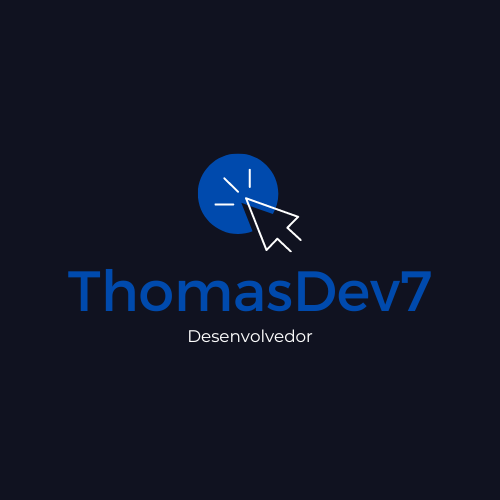
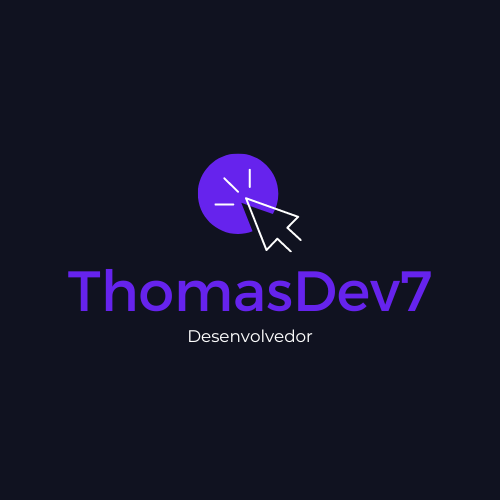
troca de paleta

Changed region(s): [[0.12, 0.54, 0.87, 0.63], [0.39, 0.3, 0.57, 0.48]]

diff --git a/css/index.css b/css/index.css
@@ -1,3 +1,11 @@
+:root{
+    --purple-p: #6623ED;
+    --purple-s: #6685ED;
+    --purple-alt: #8568F0;
+    --purple-clean: #9d82ff;
+}
+    
+
 *{
     margin: 0;
     font-family: verdana;
@@ -6,7 +14,7 @@ body{
     background: white;
 }
 .line{
-    background-color: steelblue;
+    background-color: var(--purple-p);
     padding-bottom: 1%;
     margin-bottom: 50px;
 }
@@ -14,7 +22,12 @@ body{
     background-color: black;
 }
 strong{
-    color: steelblue;
+    color: var(--purple-p);
+}
+#menu{
+    height: 30px;
+    margin-top: 15px;
+
 }
 
 #btn-content:hover{
@@ -22,7 +35,7 @@ strong{
     border-radius: 0 0 20px 0;
 }
 #btn-menu:hover{
-    background-color: steelblue;
+    background-color: var(--purple-p);
     border-radius: 0 0 60px 60px;
 }
 /* ROSTO */
@@ -87,9 +100,7 @@ img.redes{
     border: 1px #c2c2c2 solid;
     border-radius: 10px;
 }
-.conteudo .card .balls:hover{
-    background-color: steelblue;
-}
+
 .conteudo .card h2, .conteudo .card p{
     margin: 10px;
 }
@@ -101,7 +112,7 @@ img.redes{
 }
 .conteudo .card .balls{
     padding: 10px;
-    background-color: #e9e9e9;
+    background-color: var(--purple-alt);
     border-radius: 10px 10px 0 0 ;
     display: flex;
     align-items: baseline;
@@ -119,7 +130,7 @@ img.redes{
     padding: 20px;
 }
 .borda-top{
-    border-top: 3px #93ceff solid;
+    border-top: 3px var(--purple-alt) solid;
     border-radius: 50px;
 }
 .portfolio{
@@ -133,17 +144,24 @@ img.redes{
     text-align: center;
 }
 .projeto{
-    background-color: #ececec;
+    background-color: var(--purple-clean);
     padding: 20px;
     margin: 20px;
-    border: 2px solid #93ceff;
+    border: 2px solid var(--purple-alt);
     justify-content: center;
     display: flex;
     flex-direction: column;
     max-width: 600px;
 }
+.projeto a{
+    width: 150px;
+    padding: 20px;
+    text-align: center;
+    background-color: #fff;
+    color: var(--purple-p);
+}
 .projeto:hover{
-    border: 5px solid #93ceff;
+    border: 5px solid var(--purple-alt);
 }
 .projeto h3{
     font-size: 20px;
@@ -160,6 +178,7 @@ img.redes{
     margin-bottom: 100px;
     justify-content: center;
     flex-wrap: wrap;
+    border-bottom:  1px var(--purple-alt) solid;
 }
 .tec img{
     height: 100px;
@@ -174,7 +193,7 @@ img.redes{
         transform: translateY(0px);
     }
     50%{
-        transform: translateY(40px);
+        transform: translateY(10px);
     }
 }
 .tec img:nth-child(2){
@@ -194,7 +213,7 @@ img.redes{
     display: flex;
     justify-content: space-around;
     align-items: center;
-    background-color: steelblue;
+    background-color: var(--purple-p);
     box-shadow: 2px grey;
     padding: 25px;
     flex-wrap: wrap;

diff --git a/index.html b/index.html
@@ -22,7 +22,7 @@
         <div class="nav-wrapper">
             <a href="index2.html" class="brand-logo">Thomas<strong>Dev7</strong></a>
             <a href="#" data-activates="menu-mobile" class="button-collapse">
-                <i class="material-icons">menu</i>
+                <img src="./img/menu.png" id="menu" alt="">
             </a>
             <ul class="right hide-on-med-and-down">
                 <li><a href="https://www.linkedin.com/in/thomas-felipe-a9b773147/" id="btn-menu">Linkedin</a></li>
